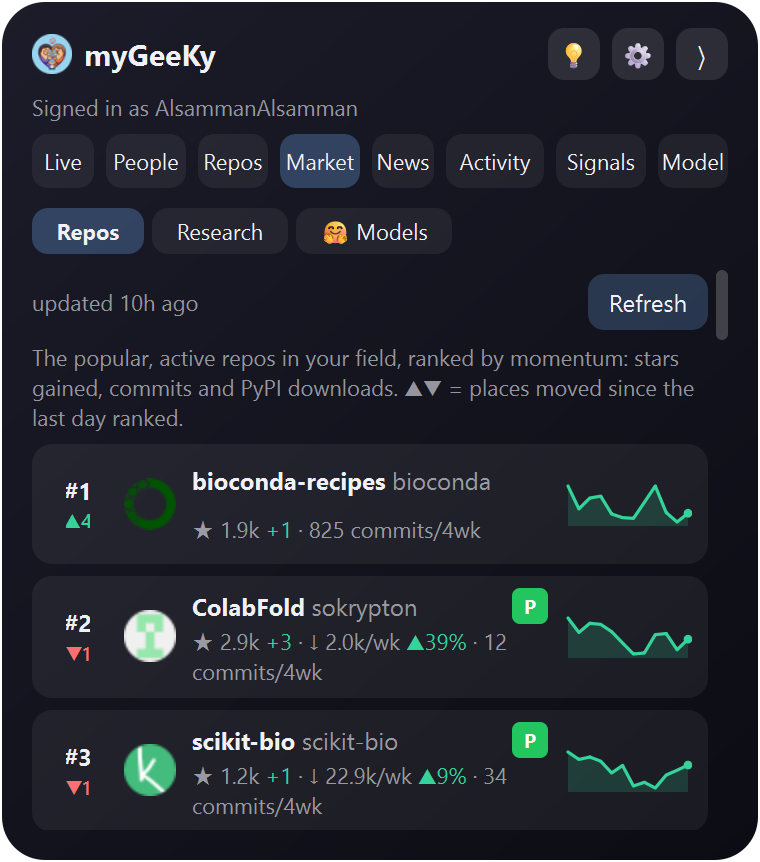
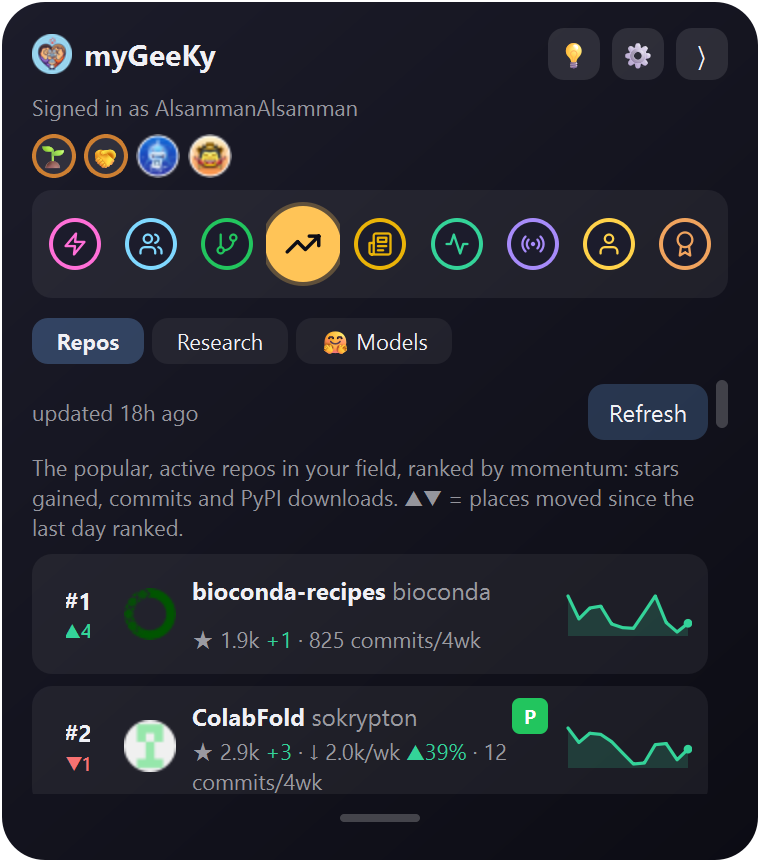
New screenshots: the planet dock, and the phone app
- Desktop screenshots, hero and tour re-rendered with the planet dock.
- Phone screenshots (docs/screenshots/phone): the orbit, news, reading with
  the rings folded, people, badges, the first-launch hint, and a three-phone
  hero; on the website (new 'On your phone' section) and in the README.
- Phone app: a link can open a planet directly (?sel=news&fold=1&open=first),
  and the icon font loads up front so icons never flash in as boxes.
- Video: a new 'On your phone' scene before the close.

diff --git a/mobile/src/app/home.tsx b/mobile/src/app/home.tsx
@@ -3,6 +3,7 @@
 // slim dock; scrolling back to the top, or "Spin the rings", brings it back.
 import AsyncStorage from '@react-native-async-storage/async-storage';
 import Ionicons from '@expo/vector-icons/Ionicons';
+import { useLocalSearchParams } from 'expo-router';
 import { useEffect, useMemo, useState } from 'react';
 import { Image, NativeScrollEvent, NativeSyntheticEvent, Pressable, RefreshControl, ScrollView, StyleSheet, Text,
          useWindowDimensions, View } from 'react-native';
@@ -82,10 +83,12 @@ export default function Home() {
     repos: [repos], models: [models], launches: [launches], you: [],
   };
 
-  const [sel, setSel] = useState<SectionId>('live');
-  const [collapsed, setCollapsed] = useState(false);
-  const [openId, setOpenId] = useState<string | null>(null);
-  const [youPart, setYouPart] = useState<YouPart>('model');
+  // a link can open a planet directly: mygeeky:///home?sel=news&fold=1&open=first
+  const params = useLocalSearchParams<{ sel?: string; fold?: string; open?: string; part?: string }>();
+  const [sel, setSel] = useState<SectionId>(params.sel && params.sel in SECTIONS ? params.sel as SectionId : 'live');
+  const [collapsed, setCollapsed] = useState(params.fold === '1');
+  const [openId, setOpenId] = useState<string | null>(params.open === 'first' ? 'first' : null);
+  const [youPart, setYouPart] = useState<YouPart>(params.part === 'badges' || params.part === 'more' ? params.part : 'model');
   const [hint, setHint] = useState(false);
   const [viewH, setViewH] = useState(0);
 
@@ -160,8 +163,8 @@ export default function Home() {
               <Text style={st.title}>Signals are on the desktop panel for now</Text>
               <Text style={[st.sub, { marginTop: 6 }]}>Private thank-yous and collab invites between myGeeKy users. They are coming to the phone.</Text>
             </Card>
-          ) : rows.length ? rows.map((r) => (
-            <RowView key={r.id} r={r} color={section.color} isOpen={openId === r.id}
+          ) : rows.length ? rows.map((r, i) => (
+            <RowView key={r.id} r={r} color={section.color} isOpen={openId === r.id || (openId === 'first' && i === 0)}
                      onPick={() => {
                        setOpenId(openId === r.id ? null : r.id);
                        setCollapsed(true);                // reading: the rings make room

diff --git a/website/index.html b/website/index.html
@@ -398,6 +398,24 @@
   </div>
 </section>
 
+<section id="phone">
+  <div class="wrap feature">
+    <div class="copy reveal">
+      <div class="eyebrow">On your phone <span class="tag-new">NEW</span></div>
+      <h2>Your world, in orbit</h2>
+      <p class="sub">The phone app puts you in the middle: your circle on the inner ring, the world on the outer one.
+        Spin a ring with your thumb, and the planet that locks into the lens opens above it.</p>
+      <ul class="ticks">
+        <li>Live, People, News, Papers, Repos, AI models and Product Hunt launches, each a planet that shows how much it holds</li>
+        <li>Tap something to read and the rings fold away into a slim dock</li>
+        <li>Set up in one scan (⚙ → Connect your phone on the desktop panel), or sign in with GitHub</li>
+        <li>For Android, coming to Google Play soon</li>
+      </ul>
+    </div>
+    <div class="pic reveal"><img src="img/phone.png" alt="The myGeeKy phone app: the orbit, the news, and reading with the rings folded" loading="lazy"></div>
+  </div>
+</section>
+
 <section id="learns">
   <div class="wrap feature">
     <div class="copy reveal">

diff --git a/mobile/src/app/_layout.tsx b/mobile/src/app/_layout.tsx
@@ -1,3 +1,5 @@
+import Ionicons from '@expo/vector-icons/Ionicons';
+import { useFonts } from 'expo-font';
 import { Stack } from 'expo-router';
 import { StatusBar } from 'expo-status-bar';
 import { SafeAreaProvider } from 'react-native-safe-area-context';
@@ -5,6 +7,9 @@ import { AppProvider } from '../lib/app-state';
 import { C } from '../lib/theme';
 
 export default function RootLayout() {
+  // the planets' icons: loaded up front, so they never flash in as empty boxes
+  const [fontsLoaded, fontError] = useFonts(Ionicons.font);
+  if (!fontsLoaded && !fontError) return null;
   return (
     <SafeAreaProvider>
       <AppProvider>

diff --git a/launch/video/make_video.py b/launch/video/make_video.py
@@ -481,6 +481,31 @@ def s_tour(t: float) -> Image.Image:
     return im
 
 
+PHONE = [
+    ("live.png", "Spin a ring with your thumb", "your circle inside, the world outside, you in the middle"),
+    ("news.png", "The planet in the lens opens above", "each planet shows how much it holds"),
+    ("read.png", "Tap to read, and the rings fold away", "news, papers, repos, AI models and launches"),
+]
+
+
+def s_phone(t: float) -> Image.Image:
+    im = background(t + 120).convert("RGBA")
+    if t < 3.0:
+        section_title(im, t, "ALSO", "On your phone", "your world, in orbit")
+        return im
+    t -= 3.0
+    for i, (shot, _, _) in enumerate(PHONE):
+        a = ease((t - i * 2.4) / 0.6)
+        if a <= 0:
+            continue
+        rise = 30 * (1 - a)
+        paste(im, img(SHOTS / "phone" / shot), (W / 2 + (i - 1) * 520, 455 + rise), 760, alpha=a, radius=44)
+    i = min(int(t // 2.4), len(PHONE) - 1)
+    a = fade(t, i * 2.4, i * 2.4 + 2.4 if i < len(PHONE) - 1 else 99, 0.4)
+    caption(im, PHONE[i][1], PHONE[i][2], a, y=900)
+    return im
+
+
 def s_close(t: float) -> Image.Image:
     im = background(t + 140).convert("RGBA")
     a = ease(t / 0.8)
@@ -502,7 +527,7 @@ def s_close(t: float) -> Image.Image:
 
 
 SCENES = [(s_hook, 13.0), (s_reveal, 6.0), (s_pillars, 16.5), (s_install, 23.6), (s_configure, 21.0),
-          (s_signals, 16.2), (s_tour, 44.0), (s_close, 8.0)]
+          (s_signals, 16.2), (s_tour, 44.0), (s_phone, 11.0), (s_close, 8.0)]
 
 
 def frame_at(t: float) -> Image.Image:

diff --git a/website/build.py b/website/build.py
@@ -26,6 +26,7 @@ IMAGES = {
     "model.png": ROOT / "docs/screenshots/model.png",
     "research.png": ROOT / "docs/screenshots/research.png",
     "news.png": ROOT / "docs/screenshots/news.png",
+    "phone.png": ROOT / "docs/screenshots/phone/hero-phone.png",
     "video-thumbnail.png": ROOT / "docs/video-thumbnail.png",
     "icon_64.png": ROOT / "src/mygeeky/gui/assets/icon_64.png",
     "icon_256.png": ROOT / "src/mygeeky/gui/assets/icon_256.png",

diff --git a/README.md b/README.md
@@ -178,6 +178,28 @@ myGeeKy reminds you a week before either one expires, and `mygeeky auth status` 
   <sub><b>Folded</b>, it's just a small icon on your screen edge that now and then lets out a few floating hearts (turn them off in ⚙).</sub>
 </p>
 
+## 📱 On your phone
+
+Your world, in orbit: you in the middle, **your circle** (Live, People, Activity, Signals) on the inner ring and
+**the world** (News, Papers, Repos, AI models, Launches) on the outer one. Spin a ring with your thumb; the planet
+that locks into the lens opens above. Tap something to read and the rings fold into a slim dock.
+
+<p align="center">
+  <img src="https://raw.githubusercontent.com/AlsammanAlsamman/myGeeKy/main/docs/screenshots/phone/hero-phone.png" width="760" alt="The myGeeKy phone app: the orbit, the news, and reading with the rings folded">
+</p>
+
+<table>
+<tr>
+<td align="center" width="25%"><img src="https://raw.githubusercontent.com/AlsammanAlsamman/myGeeKy/main/docs/screenshots/phone/live.png" width="180" alt="Live"><br><sub>Live: new faces and moves around you</sub></td>
+<td align="center" width="25%"><img src="https://raw.githubusercontent.com/AlsammanAlsamman/myGeeKy/main/docs/screenshots/phone/people.png" width="180" alt="People"><br><sub>People: spin to your circle</sub></td>
+<td align="center" width="25%"><img src="https://raw.githubusercontent.com/AlsammanAlsamman/myGeeKy/main/docs/screenshots/phone/read.png" width="180" alt="Reading"><br><sub>Reading: the rings fold away</sub></td>
+<td align="center" width="25%"><img src="https://raw.githubusercontent.com/AlsammanAlsamman/myGeeKy/main/docs/screenshots/phone/badges.png" width="180" alt="Badges"><br><sub>You: your model, badges, settings</sub></td>
+</tr>
+</table>
+
+Set it up in one scan (⚙ → **Connect your phone** on the desktop panel), or **Sign in with GitHub**. For Android,
+coming to Google Play soon.
+
 ## 🔤 Keywords that mean something
 
 Add **AI** and myGeeKy also looks for LLMs, deep learning and AI agents; add **GWAS** and it brings in
